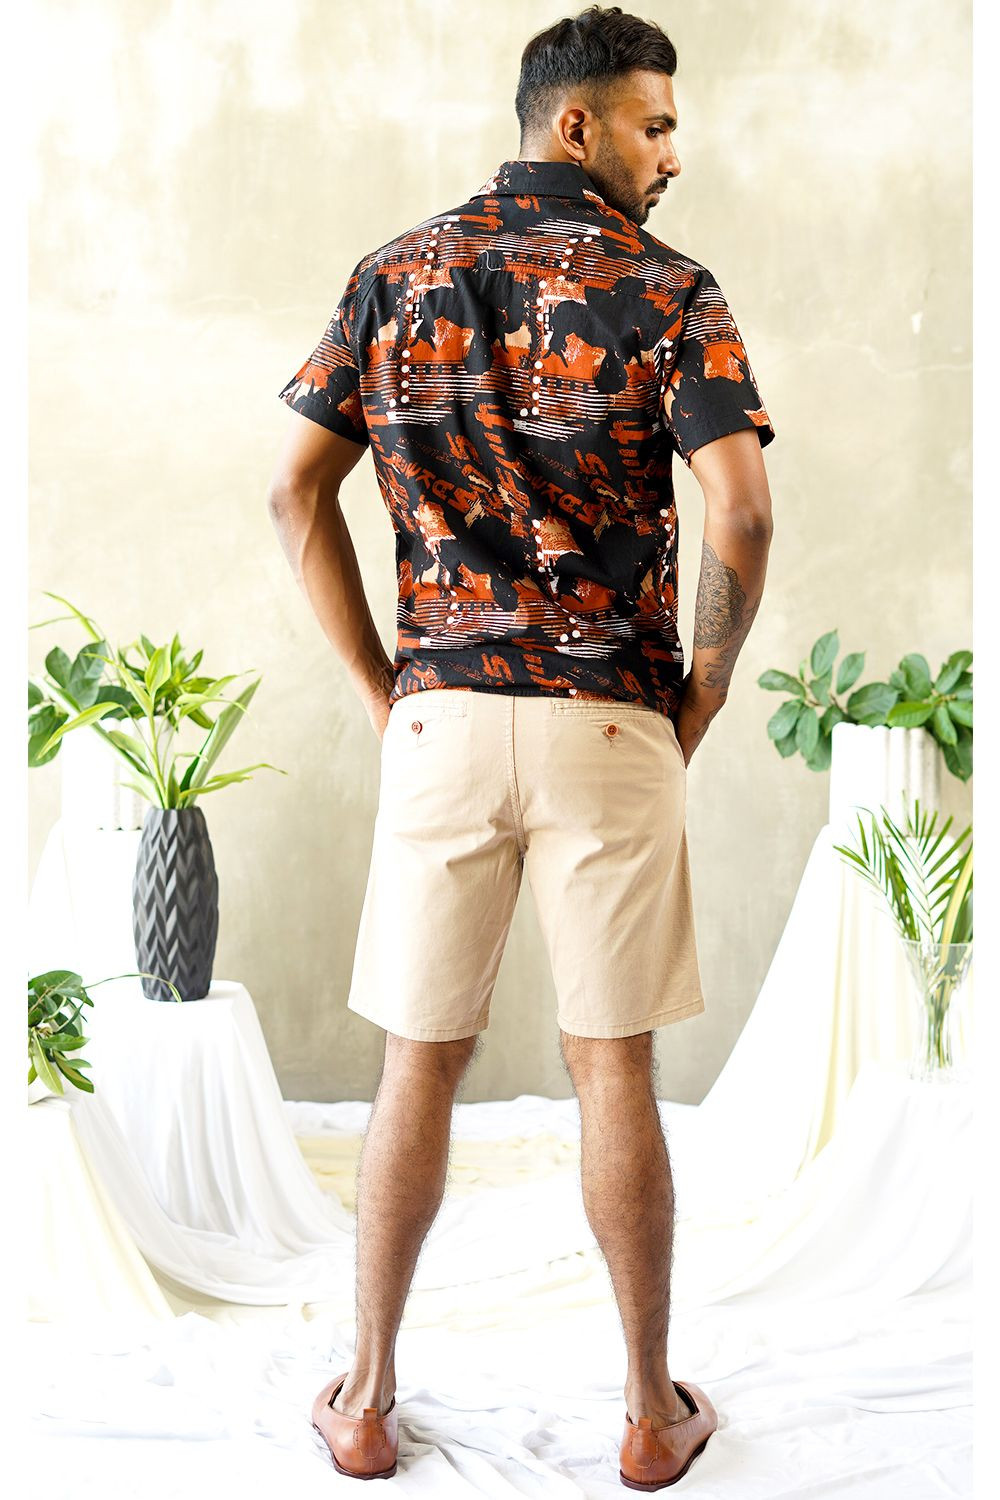
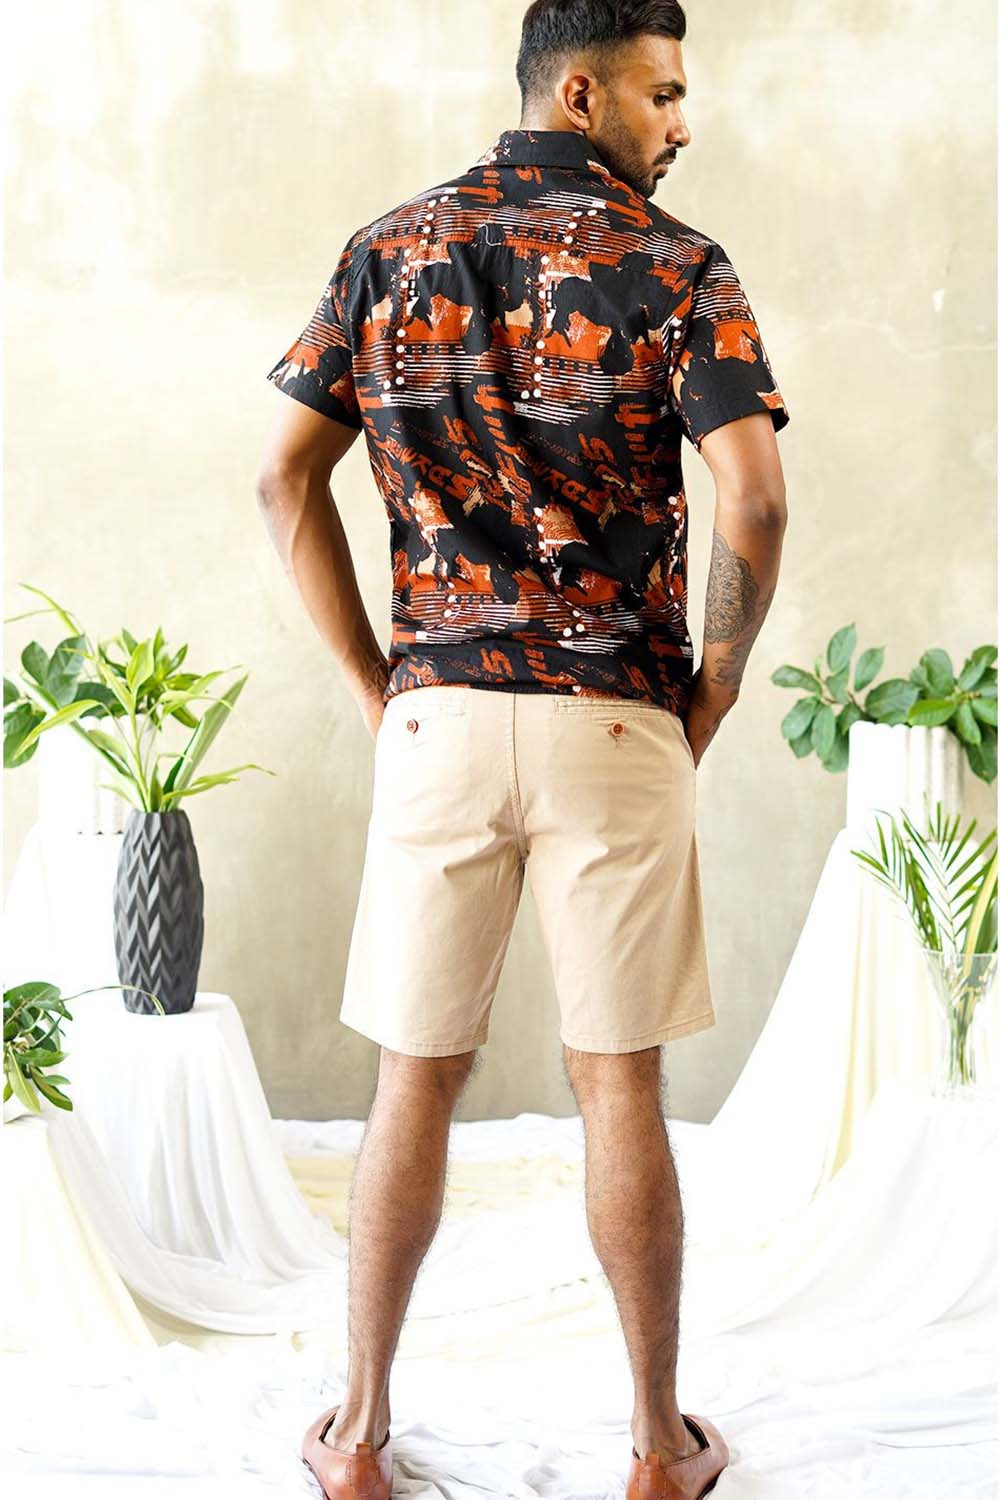
Product details page done

diff --git a/frontend/src/pages/product/product.scss b/frontend/src/pages/product/product.scss
@@ -2,30 +2,29 @@
   .product {
     display: grid;
     grid-template-columns: 1fr 1fr;
-    margin: 50px 200px;
+    margin: 50px 220px;
 
     .image {
       display: grid;
       grid-template-columns: repeat(3, 1fr);
-      width: 620px;
       gap: 10px;
+      width: 680px;
 
       .img1 {
         grid-column: span 3;
 
         img {
-          height: 620px;
-          width: 620px;
+          width: 680px;
+          height: 700px;
           object-fit: cover;
         }
       }
-
       .img2 {
         grid-column: span 1;
 
         img {
-          height: 200px;
-          width: 200px;
+          width: 220px;
+          height: 220px;
           object-fit: cover;
         }
       }
@@ -33,8 +32,8 @@
         grid-column: span 1;
 
         img {
-          height: 200px;
-          width: 200px;
+          width: 220px;
+          height: 220px;
           object-fit: cover;
         }
       }
@@ -42,15 +41,15 @@
         grid-column: span 1;
 
         img {
-          height: 200px;
-          width: 200px;
+          width: 220px;
+          height: 220px;
           object-fit: cover;
         }
       }
     }
 
     .details {
-      //   padding-left: 50px;
+      width: 100%;
 
       .title {
         font-size: 36px;

diff --git a/frontend/src/components/productCard/ProductCard.jsx b/frontend/src/components/productCard/ProductCard.jsx
@@ -1,24 +1,14 @@
 import './productCard.scss';
-import { useState } from 'react';
 
 import ShoppingCartOutlinedIcon from '@mui/icons-material/ShoppingCartOutlined';
 import StarIcon from '@mui/icons-material/Star';
 
-const ProductCard = () => {
-  const [products, setProducts] = useState([
-    { image: 'product1', name: 'Jogger Pant', price: '2350.00', id: 1 },
-    { image: 'product2', name: 'Cascais Shirt', price: '2350.00', id: 2 },
-    { image: 'product3', name: 'Vila Nova Shirt', price: '2350.00', id: 3 },
-    { image: 'product4', name: 'Cotton Shorts', price: '2350.00', id: 4 },
-    { image: 'product5', name: 'Denim Shorts', price: '2350.00', id: 5 },
-    { image: 'product6', name: 'Sports T-Shirt', price: '2350.00', id: 6 },
-    { image: 'product2', name: 'Cascais Shirt', price: '2350.00', id: 7 },
-    { image: 'product1', name: 'Jogger Pant', price: '2350.00', id: 8 },
-  ]);
+const ProductCard = (props) => {
+  const products = props.products;
 
   return (
     <div className='cards'>
-      {products.map((product) => (
+      {products?.map((product) => (
         <div className='card' key={product.id}>
           <div className='image'>
             <img src={require('../../assets/products/' + product.image + '.jpg')} alt='' />

diff --git a/frontend/src/components/newArrivals/NewArrivals.jsx b/frontend/src/components/newArrivals/NewArrivals.jsx
@@ -1,7 +1,18 @@
 import ProductCard from '../productCard/ProductCard';
 import './newArrivals.scss';
+import { useState } from 'react';
 
 const NewArrivals = () => {
+  const [products, setProducts] = useState([
+    { image: 'product1', name: 'Jogger Pant', price: '2350.00', id: 1 },
+    { image: 'product2', name: 'Cascais Shirt', price: '2350.00', id: 2 },
+    { image: 'product3', name: 'Vila Nova Shirt', price: '2350.00', id: 3 },
+    { image: 'product4', name: 'Cotton Shorts', price: '2350.00', id: 4 },
+    { image: 'product5', name: 'Denim Shorts', price: '2350.00', id: 5 },
+    { image: 'product6', name: 'Sports T-Shirt', price: '2350.00', id: 6 },
+    { image: 'product2', name: 'Cascais Shirt', price: '2350.00', id: 7 },
+    { image: 'product1', name: 'Jogger Pant', price: '2350.00', id: 8 },
+  ]);
   return (
     <div className='newArrival'>
       <div className='title'>NEW ARRIVALS</div>
@@ -14,7 +25,7 @@ const NewArrivals = () => {
         </ul>
       </div>
       <div className='hl'></div>
-      <ProductCard />
+      <ProductCard products={products} />
     </div>
   );
 };

diff --git a/frontend/src/pages/product/Product.jsx b/frontend/src/pages/product/Product.jsx
@@ -6,6 +6,8 @@ import Footer from '../../components/footer/Footer';
 import StarIcon from '@mui/icons-material/Star';
 import ShoppingCartOutlinedIcon from '@mui/icons-material/ShoppingCartOutlined';
 
+import React, { useRef, useState } from 'react';
+
 const Product = () => {
   return (
     <div className='productDetails'>
@@ -17,12 +19,15 @@ const Product = () => {
           <div className='img1'>
             <img src={require('../../assets/products/product3.jpg')} alt='' />
           </div>
+
           <div className='img2'>
             <img src={require('../../assets/products/product3.1.jpg')} alt='' />
           </div>
+
           <div className='img3'>
             <img src={require('../../assets/products/product3.2.jpg')} alt='' />
           </div>
+
           <div className='img4'>
             <img src={require('../../assets/products/product3.3.jpg')} alt='' />
           </div>

diff --git a/frontend/src/App.js b/frontend/src/App.js
@@ -1,6 +1,6 @@
 import { BrowserRouter, Route, Routes } from 'react-router-dom';
 import Home from './pages/home/Home';
-import ProductList from './pages/productList/ProductList';
+import Shop from './pages/shop/Shop';
 import About from './pages/about/About';
 import Contact from './pages/contact/Contact';
 import Product from './pages/product/Product';
@@ -12,7 +12,7 @@ function App() {
         <Routes>
           <Route index element={<Home />} />
           <Route path='/' element={<Home />} />
-          <Route path='/shop' element={<ProductList />} />
+          <Route path='/shop' element={<Shop />} />
           <Route path='/about' element={<About />} />
           <Route path='/contact' element={<Contact />} />
           <Route path='/product' element={<Product />} />

diff --git a/frontend/src/pages/shop/Shop.jsx b/frontend/src/pages/shop/Shop.jsx
@@ -1,7 +1,23 @@
 import './shop.scss';
+import GrayHeader from '../../components/grayHeader/GrayHeader';
+import Header from '../../components/Header/Header';
+import ProductCard from '../../components/productCard/ProductCard';
 
 const Shop = () => {
-  return <div>Shop</div>;
+  return (
+    <div className='shop'>
+      <GrayHeader />
+      <Header />
+
+      <div className='shop-container'>
+        <div className='filters'></div>
+
+        <div className='products'>
+          <ProductCard />
+        </div>
+      </div>
+    </div>
+  );
 };
 
 export default Shop;

diff --git a/frontend/src/pages/shop/shop.scss b/frontend/src/pages/shop/shop.scss
@@ -1,0 +1,7 @@
+.shop {
+  .shop-container {
+    margin: 50px 200px;
+    display: grid;
+    grid-template-columns: 1fr 2fr;
+  }
+}
